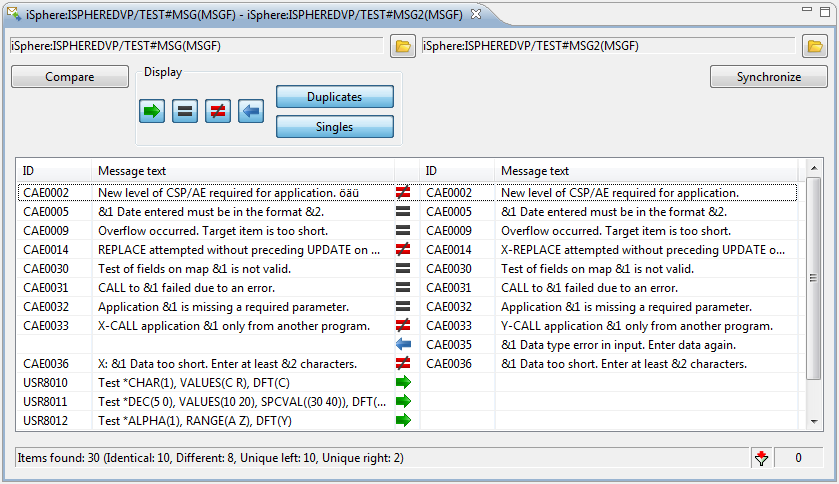
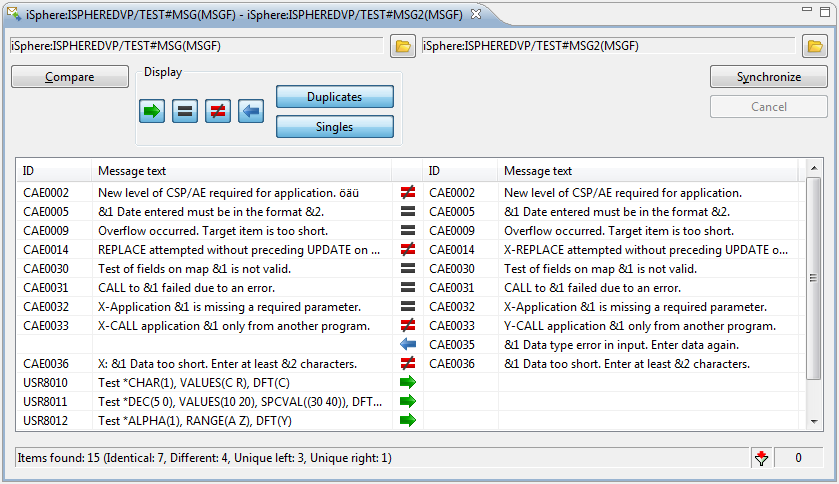
Added Cancel button to cancel a compare operation. Updated pictures of help page.

diff --git a/eclipse/iSphere Core Plugin/src/biz/isphere/core/messagefilecompare/rse/AbstractMessageFileCompareEditor.java b/eclipse/iSphere Core Plugin/src/biz/isphere/core/messagefilecompare/rse/AbstractMessageFileCompareEditor.java
@@ -40,6 +40,7 @@ import org.eclipse.swt.layout.GridData;
 import org.eclipse.swt.layout.GridLayout;
 import org.eclipse.swt.widgets.Button;
 import org.eclipse.swt.widgets.Composite;
+import org.eclipse.swt.widgets.Control;
 import org.eclipse.swt.widgets.Group;
 import org.eclipse.swt.widgets.Label;
 import org.eclipse.swt.widgets.Menu;
@@ -93,8 +94,8 @@ public abstract class AbstractMessageFileCompareEditor extends EditorPart {
     private MessageFileCompareEditorInput input;
 
     private boolean selectionChanged;
-    private boolean isLeftMessageFileWarning;
-    private boolean isRightMessageFileWarning;
+    private boolean isLeftMessageFileValid;
+    private boolean isRightMessageFileValid;
 
     private TableViewer tableViewer;
     private TableFilter tableFilter;
@@ -102,6 +103,8 @@ public abstract class AbstractMessageFileCompareEditor extends EditorPart {
 
     private Button btnCompare;
     private Button btnSynchronize;
+    private Button btnCancel;
+    private IProgressMonitor jobToCancel;
 
     private DialogSettingsManager dialogSettingsManager;
 
@@ -129,8 +132,8 @@ public abstract class AbstractMessageFileCompareEditor extends EditorPart {
     public AbstractMessageFileCompareEditor() {
 
         selectionChanged = true;
-        isLeftMessageFileWarning = false;
-        isRightMessageFileWarning = false;
+        isLeftMessageFileValid = false;
+        isRightMessageFileValid = false;
 
         dialogSettingsManager = new DialogSettingsManager(getDialogSettings());
         shell = PlatformUI.getWorkbench().getActiveWorkbenchWindow().getShell();
@@ -177,7 +180,7 @@ public abstract class AbstractMessageFileCompareEditor extends EditorPart {
                 RemoteObject messageFile = performSelectRemoteObject(connectionName);
                 if (messageFile != null) {
                     selectionChanged = true;
-                    isLeftMessageFileWarning = false;
+                    isLeftMessageFileValid = false;
                     getEditorInput().setLeftMessageFile(messageFile);
                     refreshAndCheckMessageFileNames();
                 }
@@ -206,7 +209,7 @@ public abstract class AbstractMessageFileCompareEditor extends EditorPart {
                 RemoteObject messageFile = performSelectRemoteObject(connectionName);
                 if (messageFile != null) {
                     selectionChanged = true;
-                    isRightMessageFileWarning = false;
+                    isRightMessageFileValid = false;
                     getEditorInput().setRightMessageFile(messageFile);
                     refreshAndCheckMessageFileNames();
                 }
@@ -224,7 +227,7 @@ public abstract class AbstractMessageFileCompareEditor extends EditorPart {
         optionsArea.setLayoutData(new GridData(SWT.FILL, SWT.CENTER, true, false, 1, 1));
 
         btnCompare = WidgetFactory.createPushButton(optionsArea);
-        btnCompare.setLayoutData(createButtonLayoutData());
+        btnCompare.setLayoutData(createButtonLayoutData(2));
         btnCompare.setText(Messages.Compare);
         btnCompare.setToolTipText(Messages.Tooltip_start_compare);
         btnCompare.addSelectionListener(new SelectionListener() {
@@ -251,13 +254,26 @@ public abstract class AbstractMessageFileCompareEditor extends EditorPart {
             public void widgetDefaultSelected(SelectionEvent event) {
             }
         });
+
+        btnCancel = WidgetFactory.createPushButton(optionsArea);
+        btnCancel.setLayoutData(createButtonLayoutData());
+        btnCancel.setText(Messages.Cancel);
+        btnCancel.setToolTipText(Messages.Tooltip_cancel_operation);
+        btnCancel.addSelectionListener(new SelectionListener() {
+            public void widgetSelected(SelectionEvent event) {
+                performCancelOperation();
+            }
+
+            public void widgetDefaultSelected(SelectionEvent event) {
+            }
+        });
     }
 
     private void createFilterOptionsArea(Composite parent) {
 
         Group filterOptionsGroup = new Group(parent, SWT.NONE);
         filterOptionsGroup.setLayout(createGridLayoutNoBorder(5, false));
-        filterOptionsGroup.setLayoutData(new GridData(SWT.LEFT, SWT.CENTER, true, false, 1, 1));
+        filterOptionsGroup.setLayoutData(new GridData(SWT.LEFT, SWT.CENTER, true, false, 1, 2));
         filterOptionsGroup.setText(Messages.Display);
 
         filterData = new TableFilterData();
@@ -447,9 +463,14 @@ public abstract class AbstractMessageFileCompareEditor extends EditorPart {
     }
 
     private GridData createButtonLayoutData() {
+        return createButtonLayoutData(1);
+    }
+
+    private GridData createButtonLayoutData(int verticalSpan) {
 
         GridData gridData = new GridData(SWT.LEFT, SWT.TOP, false, false, 1, 1);
         gridData.widthHint = 120;
+        gridData.verticalSpan = verticalSpan;
 
         return gridData;
     }
@@ -483,10 +504,12 @@ public abstract class AbstractMessageFileCompareEditor extends EditorPart {
 
     @Override
     public void doSave(IProgressMonitor monitor) {
+        return;
     }
 
     @Override
     public void doSaveAs() {
+        return;
     }
 
     @Override
@@ -501,7 +524,7 @@ public abstract class AbstractMessageFileCompareEditor extends EditorPart {
 
     @Override
     public boolean isSaveOnCloseNeeded() {
-        return false;
+        return true;
     }
 
     public static void openEditor(RemoteObject leftMessageFile, RemoteObject rightMessageFile, String mode) {
@@ -584,23 +607,27 @@ public abstract class AbstractMessageFileCompareEditor extends EditorPart {
         boolean isCompareEnabled = true;
         boolean isSynchronizeEnabled = true;
 
-        if (input.getLeftMessageFile() != null) {
+        if (input.getLeftMessageFile() != null && !isLeftMessageFileValid) {
             String connectionName = input.getLeftMessageFile().getConnectionName();
             AS400 system = IBMiHostContributionsHandler.getSystem(connectionName);
-            if (isLeftMessageFileWarning || !ISphereHelper.checkISphereLibrary(getShell(), system)) {
+            if (!ISphereHelper.checkISphereLibrary(getShell(), system)) {
                 isCompareEnabled = false;
                 isSynchronizeEnabled = false;
-                isLeftMessageFileWarning = true;
+                isLeftMessageFileValid = false;
+            } else {
+                isLeftMessageFileValid = true;
             }
         }
 
-        if (input.getRightMessageFile() != null) {
+        if (input.getRightMessageFile() != null && !isRightMessageFileValid) {
             String connectionName = input.getRightMessageFile().getConnectionName();
             AS400 system = IBMiHostContributionsHandler.getSystem(connectionName);
-            if (isRightMessageFileWarning || !ISphereHelper.checkISphereLibrary(getShell(), system)) {
+            if (!ISphereHelper.checkISphereLibrary(getShell(), system)) {
                 isCompareEnabled = false;
                 isSynchronizeEnabled = false;
-                isRightMessageFileWarning = true;
+                isRightMessageFileValid = false;
+            } else {
+                isRightMessageFileValid = true;
             }
         }
 
@@ -612,20 +639,35 @@ public abstract class AbstractMessageFileCompareEditor extends EditorPart {
             isSynchronizeEnabled = false;
         }
 
+        if (isWorking()) {
+            setChildrenEnabled(headerArea, false);
+            setChildrenEnabled(optionsArea, false);
+            isCompareEnabled = false;
+        } else {
+            setChildrenEnabled(headerArea, true);
+            setChildrenEnabled(optionsArea, true);
+        }
+
+        if (jobToCancel == null) {
+            btnCancel.setEnabled(false);
+        } else {
+            btnCancel.setEnabled(true);
+        }
+
         btnCompare.setEnabled(isCompareEnabled);
         btnSynchronize.setEnabled(isSynchronizeEnabled);
 
-        if (isWorking()) {
-            headerArea.setEnabled(false);
-            optionsArea.setEnabled(false);
-        } else {
-            headerArea.setEnabled(true);
-            optionsArea.setEnabled(true);
-        }
-        headerArea.update();
-        optionsArea.update();
-
         displayCompareStatus();
+    }
+
+    private void setChildrenEnabled(Composite parent, boolean enabled) {
+        for (Control control : parent.getChildren()) {
+            if (control instanceof Button) {
+                control.setEnabled(enabled);
+            } else if (control instanceof Composite) {
+                setChildrenEnabled((Composite)control, enabled);
+            }
+        }
     }
 
     private boolean isWorking() {
@@ -747,7 +789,7 @@ public abstract class AbstractMessageFileCompareEditor extends EditorPart {
         }
 
         tableViewer.setInput(getEditorInput().clearAll());
-        
+
         isComparing = true;
         setButtonEnablementAndDisplayCompareStatus();
 
@@ -758,15 +800,33 @@ public abstract class AbstractMessageFileCompareEditor extends EditorPart {
 
                 try {
 
+                    jobToCancel = monitor;
+                    UIJob job = new UIJob("") {
+                        @Override
+                        public IStatus runInUIThread(IProgressMonitor monitor) {
+                            setButtonEnablementAndDisplayCompareStatus();
+                            return Status.OK_STATUS;
+                        }
+                    };
+                    job.schedule();
+
                     monitor.beginTask("", 2);
 
-                    MessageDescription[] leftMessageDescriptions = getMessageDescriptions(editorInput.getLeftMessageFile());
+                    MessageDescription[] leftMessageDescriptions = getMessageDescriptions(editorInput.getLeftMessageFile(), monitor);
                     getEditorInput().setLeftMessageDescriptions(leftMessageDescriptions);
                     monitor.worked(1);
 
-                    MessageDescription[] rightMessageDescriptions = getMessageDescriptions(editorInput.getRightMessageFile());
+                    if (monitor.isCanceled()) {
+                        return cancelOperation();
+                    }
+
+                    MessageDescription[] rightMessageDescriptions = getMessageDescriptions(editorInput.getRightMessageFile(), monitor);
                     getEditorInput().setRightMessageDescriptions(rightMessageDescriptions);
                     monitor.worked(2);
+
+                    if (monitor.isCanceled()) {
+                        return cancelOperation();
+                    }
 
                 } finally {
                     monitor.done();
@@ -774,6 +834,10 @@ public abstract class AbstractMessageFileCompareEditor extends EditorPart {
                     UIJob job = new UIJob("") {
                         @Override
                         public IStatus runInUIThread(IProgressMonitor monitor) {
+                            if (tableViewer.getTable().isDisposed()) {
+                                return Status.OK_STATUS;
+                            }
+                            jobToCancel = null;
                             tableViewer.setInput(getEditorInput());
                             selectionChanged = false;
                             isComparing = false;
@@ -787,7 +851,15 @@ public abstract class AbstractMessageFileCompareEditor extends EditorPart {
                 return Status.OK_STATUS;
             }
 
-            private MessageDescription[] getMessageDescriptions(RemoteObject messageFile) {
+            private IStatus cancelOperation() {
+
+                getEditorInput().setLeftMessageDescriptions(new MessageDescription[0]);
+                getEditorInput().setRightMessageDescriptions(new MessageDescription[0]);
+
+                return Status.OK_STATUS;
+            }
+
+            private MessageDescription[] getMessageDescriptions(RemoteObject messageFile, IProgressMonitor monitor) {
 
                 String connectionName = messageFile.getConnectionName();
                 AS400 system = IBMiHostContributionsHandler.getSystem(connectionName);
@@ -795,7 +867,7 @@ public abstract class AbstractMessageFileCompareEditor extends EditorPart {
                 IQMHRTVM iqmhrtvm = new IQMHRTVM(system, connectionName);
                 iqmhrtvm.setMessageFile(messageFile.getName(), messageFile.getLibrary());
 
-                return iqmhrtvm.retrieveAllMessageDescriptions();
+                return iqmhrtvm.retrieveAllMessageDescriptions(monitor);
             }
         };
         job.schedule();
@@ -816,18 +888,20 @@ public abstract class AbstractMessageFileCompareEditor extends EditorPart {
                 MessageFileCompareItem compareItem = (MessageFileCompareItem)tableViewer.getElementAt(i);
 
                 if (compareItem.isSelected(filterData)) {
+                    getTableStatistics().removeElement(compareItem, filterData);
                     if (compareItem.getCompareStatus() == MessageFileCompareItem.LEFT_MISSING) {
                         performCopyToLeft(compareItem, leftMessageFile);
                     } else if (compareItem.getCompareStatus() == MessageFileCompareItem.RIGHT_MISSING) {
                         performCopyToRight(compareItem, rightMessageFile);
                     }
+                    getTableStatistics().addElement(compareItem, filterData);
                 }
             }
 
             tableViewer.getTable().redraw();
             setButtonEnablementAndDisplayCompareStatus();
 
-            performCompareMessageFiles();
+            // performCompareMessageFiles();
 
         } finally {
 
@@ -893,6 +967,23 @@ public abstract class AbstractMessageFileCompareEditor extends EditorPart {
         // CompareUI.openCompareEditorOnPage(fInput,
         // ISpherePlugin.getDefault().getWorkbench().getActiveWorkbenchWindow().getActivePage());
         CompareUI.openCompareDialog(fInput);
+    }
+
+    private void performCancelOperation() {
+
+        if (jobToCancel != null) {
+            jobToCancel.setCanceled(true);
+        }
+    }
+
+    @Override
+    public void dispose() {
+
+        if (jobToCancel != null) {
+            jobToCancel.setCanceled(true);
+        }
+
+        super.dispose();
     }
 
     protected abstract RemoteObject performSelectRemoteObject(String connectionName);

diff --git a/eclipse/iSphere Core Plugin/src/biz/isphere/core/internal/api/retrievemessagedescription/IQMHRTVM.java b/eclipse/iSphere Core Plugin/src/biz/isphere/core/internal/api/retrievemessagedescription/IQMHRTVM.java
@@ -12,6 +12,8 @@ import java.beans.PropertyVetoException;
 import java.util.ArrayList;
 import java.util.List;
 
+import org.eclipse.core.runtime.IProgressMonitor;
+
 import biz.isphere.base.internal.Buffer;
 import biz.isphere.core.ISpherePlugin;
 import biz.isphere.core.internal.api.APIErrorCode;
@@ -111,9 +113,22 @@ public class IQMHRTVM extends APIProgramCallDocument {
     /**
      * Retrieves all message descriptions of the message file.
      * 
+     * @param monitor - monitor
+     * 
      * @return array of message descriptions
      */
     public MessageDescription[] retrieveAllMessageDescriptions() {
+        return retrieveAllMessageDescriptions(null);
+    }
+
+    /**
+     * Retrieves all message descriptions of the message file.
+     * 
+     * @param monitor - monitor
+     * 
+     * @return array of message descriptions
+     */
+    public MessageDescription[] retrieveAllMessageDescriptions(IProgressMonitor monitor) {
 
         List<MessageDescription> messages = new ArrayList<MessageDescription>();
 
@@ -129,6 +144,9 @@ public class IQMHRTVM extends APIProgramCallDocument {
             while (result != null && result.getBytesAvailable() > 0 && result.getNumberOfMessagesReturned() > 0) {
                 // numCalls++;
                 messages.addAll(result.getMessages());
+                if (monitor != null && monitor.isCanceled()) {
+                    break;
+                }
                 result = retrieveMessageDescriptions(IQMHRTVM.RETRIEVE_NEXT, result.getLastMessageIdReturned(), ALL_MESSAGES, bufferSize);
             }
 

diff --git a/eclipse/iSphere Core Plugin/src/biz/isphere/core/Messages.java b/eclipse/iSphere Core Plugin/src/biz/isphere/core/Messages.java
@@ -1023,6 +1023,8 @@ public class Messages extends NLS {
     public static String Yes_To_All;
     
     public static String No_To_All;
+
+    public static String Tooltip_cancel_operation;
     
     static {
         // initialize resource bundle
